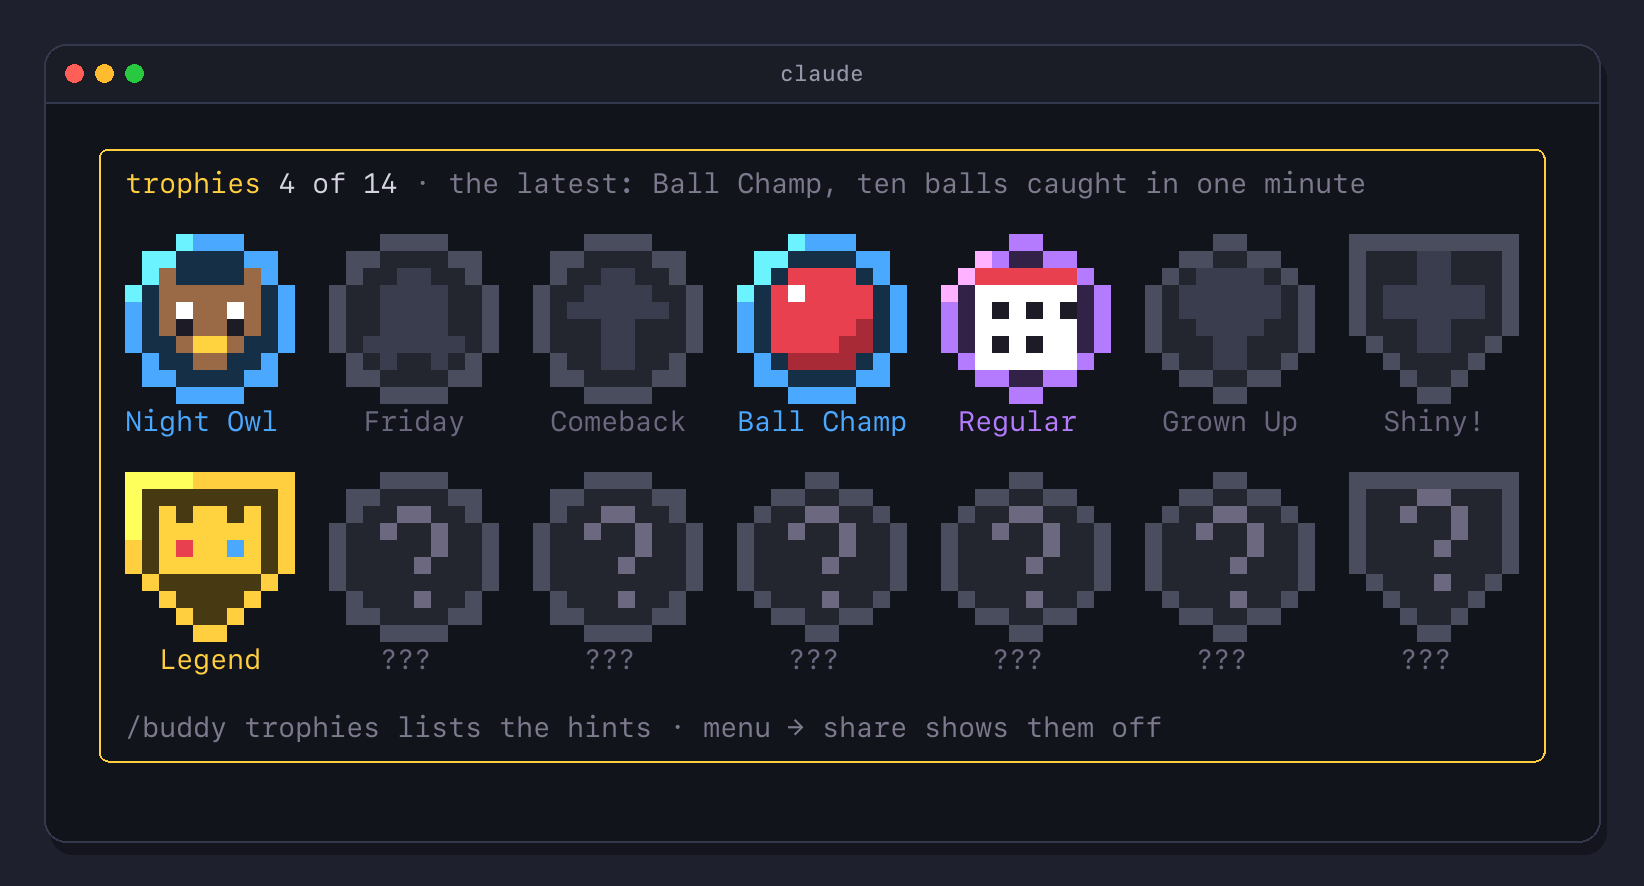
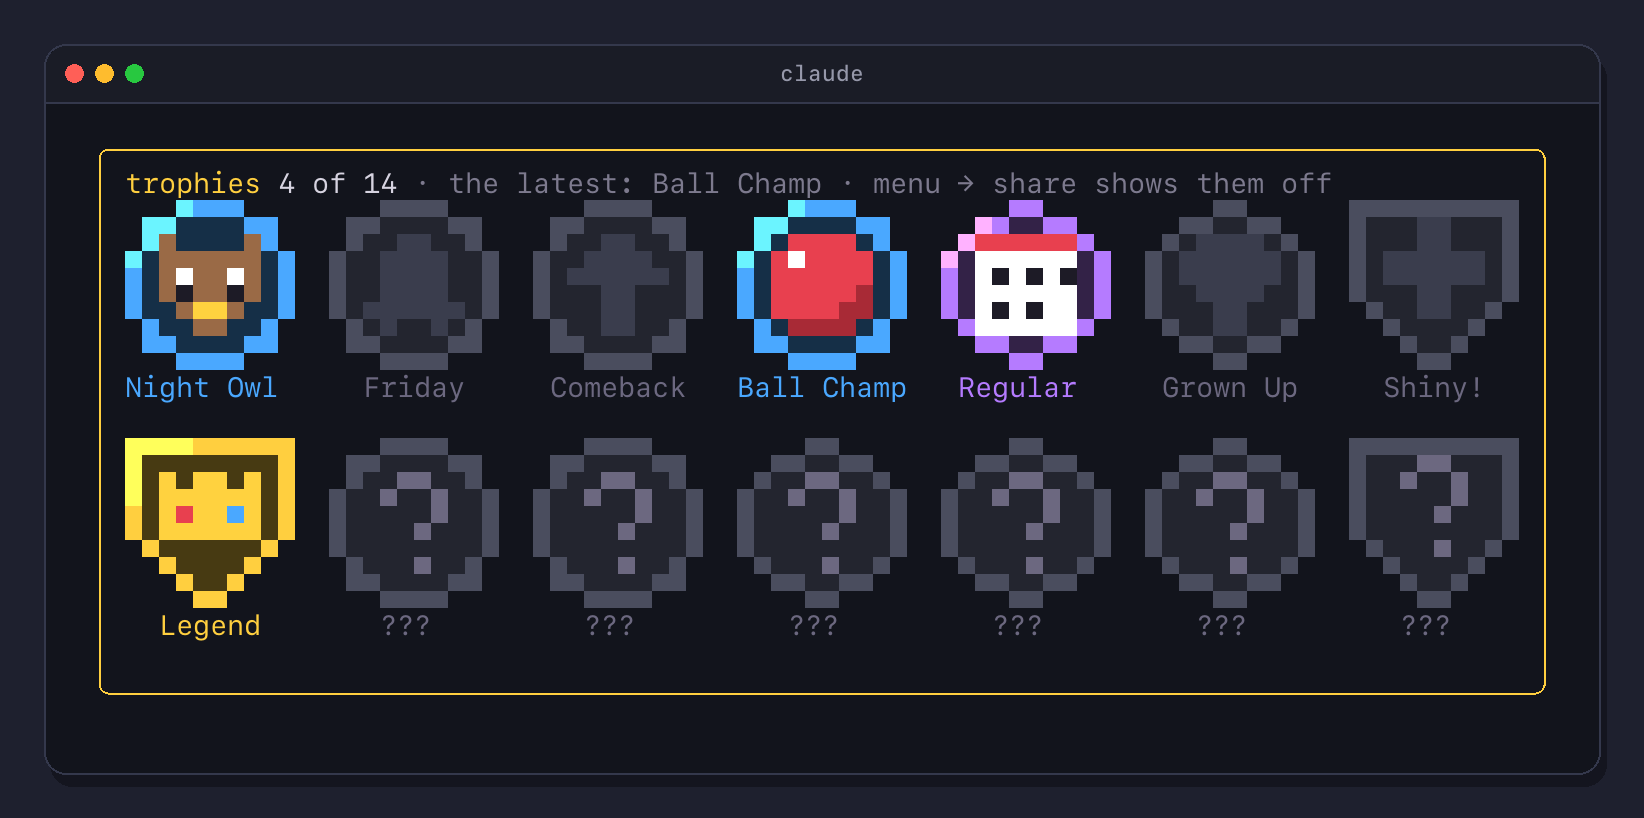
fix: /buddy trophies opens the case with a one-line answer instead of a long list, the case fits the screen

diff --git a/pixel-buddy/hooks/register.tsx b/pixel-buddy/hooks/register.tsx
@@ -10,7 +10,7 @@ import { BUBBLE_MS, HEART_MS, LEAVE_MS, TROPHY_MS, arriveMsOf, JUMP_MS, MIN_COLS
 import type { ActionKind, Menu, MenuItem, Mood, Season } from './scene'
 import { SPECIES, speciesOf } from './species'
 import type { SpeciesId } from './species'
-import { BALLS, BALL_WINDOW_MS, COMEBACK_MS, DEEP_THOUGHT, DUCK_MS, GROWN_LEVEL, HIVE, REGULAR_DAYS, TROPHIES, commitTrophiesAt, countOf, dayKeyOf, foundOf, listOf, nextTally, ownedTrophiesOf, tallyOf, toastOf, trophyOf } from './trophies'
+import { BALLS, BALL_WINDOW_MS, COMEBACK_MS, DEEP_THOUGHT, DUCK_MS, GROWN_LEVEL, HIVE, REGULAR_DAYS, TROPHIES, commitTrophiesAt, countOf, dayKeyOf, foundOf, nextTally, ownedTrophiesOf, tallyOf, toastOf, trophyOf } from './trophies'
 import type { Found, TrophyId } from './trophies'
 import { shareOf } from './share'
 import { trophyCaseOf } from './badges'
@@ -533,11 +533,9 @@ const drawCase = ($: EngineInterface, e: ResolveInput, now: number, width: numbe
             <Box flexDirection="row">
                 <Text color={hexOf(CASE_GOLD)} weight="bold">trophies </Text>
                 <Text>{countOf(found)} of {TROPHIES.length}</Text>
-                <Text dimColor>{latest === undefined ? ' · rare moments of your work earn them' : ` · the latest: ${latest.name}, ${latest.hint}`}</Text>
+                <Text dimColor>{latest === undefined ? ' · rare moments of your work earn them' : ` · the latest: ${latest.name}`} · menu → share shows them off</Text>
             </Box>
-            <Text> </Text>
             {Raster({ key: 'trophy-badges', columns: shown.columns, rows: shown.rows, cells: encode(shown.cells) })}
-            <Text dimColor>/buddy trophies lists the hints · menu → share shows them off</Text>
         </Box>
     )
 }
@@ -898,7 +896,7 @@ const help = (): string => [
     '',
     'Commands:',
     '  /buddy               its full card with stats and personality',
-    '  /buddy trophies      the trophy case and the hints for the ones still open',
+    '  /buddy trophies      open the trophy case',
     '  /buddy share         copy a card of your buddy to show it off',
     '  /buddy name <name>   rename it',
     '  /buddy feed          a berry',
@@ -928,7 +926,7 @@ const perform = async ($: EngineInterface, now: number, arg: string, rest: reado
         cardAt = null
         $.ui.invalidate('ui.render')
 
-        return listOf(found)
+        return `${countOf(found)} of ${TROPHIES.length} trophies, the case is open above the prompt. Don't see it? Click "▸ plugin panel hidden" there`
     }
     if (arg === 'share') {
         const text = shareOf(current, found)

diff --git a/tests/buddy.test.tsx b/tests/buddy.test.tsx
@@ -1076,12 +1076,7 @@ test('a legendary and a shiny buddy already in the nest earn Legend and Shiny! o
     const result = await $.command.run({ command: 'buddy', args: 'trophies' } as Parameters<typeof $.command.run>[0])
 
     expect(trophiesIn(store)).toEqual(['shiny', 'legend'])
-    expect(result.text).toContain('Trophies: 2 of 14 found')
-    expect(result.text).toMatch(/👑 Legend · legendary · a legendary buddy in your nest · found \d{4}-\d{2}-\d{2}/)
-    expect(result.text).toContain('✨ Shiny! · legendary')
-    expect(result.text).toContain('○  Night Owl · rare · a commit between 2 and 5 at night')
-    expect(result.text).toContain('?  a secret epic one')
-    expect(result.text).not.toContain('1337')
+    expect(result.text).toBe('2 of 14 trophies, the case is open above the prompt. Don\'t see it? Click "▸ plugin panel hidden" there')
 })
 
 test('green tests soon after three failures in a row earn Comeback, a duck petted then earns Rubber Duck', async ($, on) => {

diff --git a/pixel-buddy/hooks/trophies.ts b/pixel-buddy/hooks/trophies.ts
@@ -120,18 +120,3 @@ export const toastOf = (id: TrophyId, found: Found): string => {
 
     return `${trophy.emoji} Trophy: ${trophy.name}, ${trophy.rarity}, for ${trophy.hint}. ${countOf(found)} of ${TROPHIES.length} found. Menu → share to show it off`
 }
-
-export const listOf = (found: Found): string => {
-    const open = TROPHIES.filter(one => found[one.id] === undefined).map(one => (one.isSecret
-        ? `  ?  a secret ${one.rarity} one`
-        : `  ○  ${one.name} · ${one.rarity} · ${one.hint}`))
-    const mine = foundOrder(found).map(one => `  ${one.emoji} ${one.name} · ${one.rarity} · ${one.hint} · found ${dayKeyOf(found[one.id] ?? 0)}`)
-
-    return [
-        `Trophies: ${countOf(found)} of ${TROPHIES.length} found`,
-        ...mine,
-        ...(open.length === 0 ? [] : ['', 'Still to find:', ...open]),
-        '',
-        'A secret one shows its name once you find it. Menu → trophies opens the case, menu → share shows it off.',
-    ].join('\n')
-}

diff --git a/pixel-buddy/README.md b/pixel-buddy/README.md
@@ -84,11 +84,11 @@ says what it was for.
 | Shiny! | legendary | a shiny buddy in your nest |
 | Legend | legendary | a legendary buddy in your nest |
 
-Six more are secret: they show only a question mark until you find them. The code is open, but finding them yourself
+Six more are secret: they show a question mark until you find them. The code is open, but finding them yourself
 is more fun.
 
-`trophies` in the menu opens your trophy case above the prompt. Each trophy is a pixel badge: round for rare, a
-hexagon for epic, a shield for legendary. `/buddy trophies` also lists the hints for the ones still open.
+`trophies` in the menu or `/buddy trophies` opens your trophy case above the prompt. Each trophy is a pixel badge:
+round for rare, a hexagon for epic, a shield for legendary.
 
 ![The trophy case: pixel badges, round for rare, hexagon for epic, a shield for legendary. Found ones in color, open ones gray, secret ones a question mark](docs/trophy-case.png)
 
@@ -154,7 +154,7 @@ A right click opens it. Its first line sums the buddy up: name, level, belly, lo
 | Command | What it does |
 | --- | --- |
 | `/buddy` | its full card in the chat, stats and personality included |
-| `/buddy trophies` | opens the trophy case and lists the hints |
+| `/buddy trophies` | opens the trophy case |
 | `/buddy share` | the share card, copied and printed |
 | `/buddy name <name>` | rename it |
 | `/buddy feed` | a berry |
